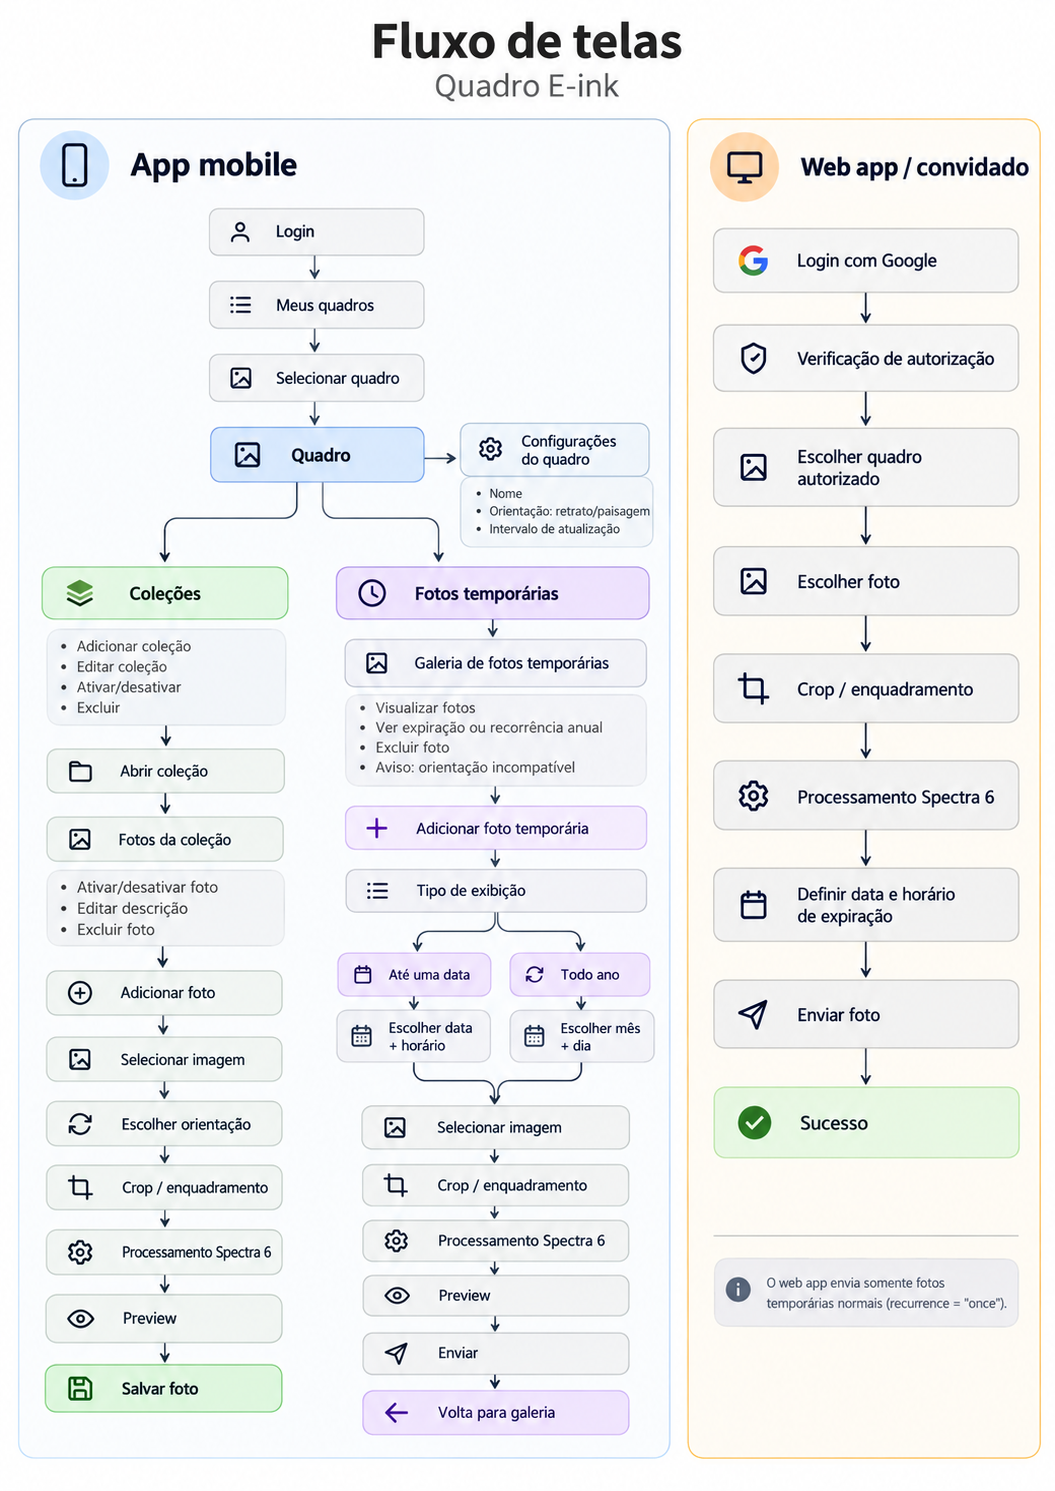
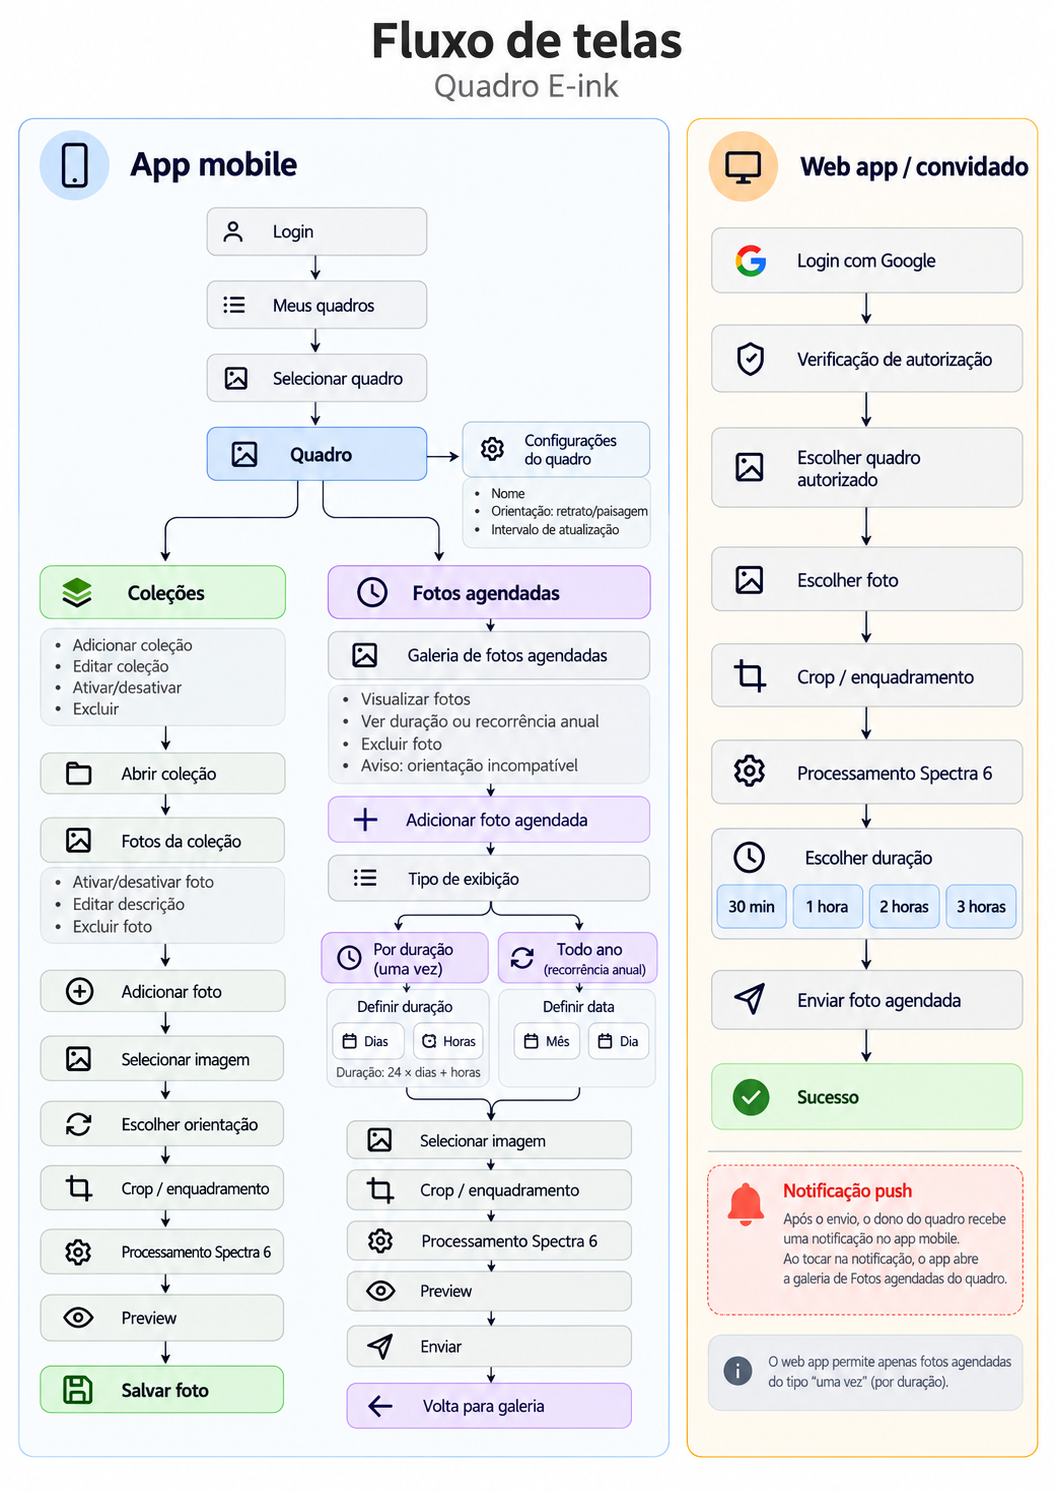
Updating Documentation

diff --git a/README.md b/README.md
@@ -2,9 +2,9 @@
 
 Aplicativo para gerenciamento de quadros digitais E-ink utilizando displays Spectra 6.
 
-O projeto permite organizar coleções de fotos, processar imagens para a paleta do display, enviar fotos temporárias e controlar quais imagens devem aparecer no quadro.
+O projeto permite organizar coleções de fotos, processar imagens para a paleta do display, enviar fotos agendadas e controlar quais imagens devem aparecer no quadro.
 
-Além do aplicativo mobile, existe um web app simplificado que permite que usuários autorizados enviem fotos temporárias para um quadro.
+Além do aplicativo mobile, existe um web app simplificado que permite que usuários autorizados enviem fotos agendadas para um quadro.
 
 ## Funcionalidades
 
@@ -25,26 +25,37 @@ Além do aplicativo mobile, existe um web app simplificado que permite que usuá
 - Conversão das imagens para a paleta Spectra 6
 - Geração do arquivo binário utilizado pelo display
 - Preview da imagem processada
-- Fotos temporárias com expiração
-- Fotos temporárias com recorrência anual
+- Fotos agendadas por duração
+- Fotos agendadas com recorrência anual
 - Aviso de orientação incompatível
+- Recebimento de notificações push quando um convidado envia uma foto agendada
+- Abertura direta da tela de fotos agendadas ao tocar na notificação
 
-### Fotos temporárias
+### Fotos agendadas
 
-Existem dois tipos de foto temporária.
+Existem dois tipos de foto agendada.
 
-#### Exibição única
+#### Exibição por duração
 
-A imagem é válida até uma data e horário definidos.
+A foto é exibida na próxima sincronização disponível e permanece no quadro pelo tempo definido a partir do momento em que começa a ser exibida.
 
 ```text
 recurrence: "once"
-expiresAt: Timestamp
+durationMinutes: 180
 ```
+
+No aplicativo mobile, a duração é definida em dias e horas.
+
+```text
+duração em horas = 24 × dias + horas
+durationMinutes = duração em horas × 60
+```
+
+O início e o término da exibição são controlados localmente pelo firmware. Esse estado não precisa ser armazenado como histórico no servidor.
 
 #### Recorrência anual
 
-A imagem fica programada para aparecer todo ano em uma determinada data.
+A imagem fica programada para aparecer durante o dia escolhido, todos os anos.
 
 ```text
 recurrence: "yearly"
@@ -54,9 +65,11 @@ yearlyDate:
   day: 25
 ```
 
+A recorrência anual utiliza o dia inteiro no fuso local do quadro.
+
 ### Web app
 
-O web app permite que convidados autorizados enviem fotos temporárias sem precisar utilizar o aplicativo mobile.
+O web app permite que convidados autorizados enviem fotos agendadas sem precisar utilizar o aplicativo mobile.
 
 Fluxo:
 
@@ -67,14 +80,46 @@ Login com Google
 → Escolher foto
 → Crop / enquadramento
 → Processamento Spectra 6
-→ Definir data e horário de expiração
+→ Escolher duração
 → Enviar
 ```
 
-O web app suporta apenas fotos temporárias do tipo:
+O web app suporta apenas fotos agendadas do tipo:
 
 ```text
 recurrence: "once"
+```
+
+As durações disponíveis no web app são:
+
+- 30 minutos
+- 1 hora
+- 2 horas
+- 3 horas
+
+### Notificações push
+
+Quando um convidado autorizado envia uma foto agendada pelo web app, a criação do documento no Firestore aciona uma Cloud Function.
+
+```text
+Web app
+→ Firestore cria temporaryPhotos/{photoId}
+→ Cloud Function identifica o dono do quadro
+→ Busca os push tokens cadastrados
+→ Expo Push Service / FCM
+→ Notificação chega ao celular
+→ Toque abre "Fotos agendadas" daquele quadro
+```
+
+As notificações enviadas pelo próprio dono do quadro são ignoradas pela Cloud Function.
+
+Um mesmo usuário pode registrar vários dispositivos.
+
+```text
+users/{uid}/pushTokens/{expoPushToken}
+  token
+  platform
+  updatedAt
 ```
 
 ## Fluxo de telas
@@ -89,10 +134,48 @@ O projeto utiliza:
 - Cloud Firestore
 - Firebase Storage
 - Firebase Hosting
+- Firebase Cloud Functions
 
 A estrutura principal de dados e arquivos está representada abaixo.
 
 ![Estrutura Firestore e Storage](docs/firestore-storage.png)
+
+### Fotos agendadas no Firestore
+
+```text
+devices/{deviceId}/temporaryPhotos/{photoId}
+```
+
+Exibição por duração:
+
+```text
+createdByUid
+createdByEmail
+previewPath
+epaperFilePath
+width
+height
+createdAt
+recurrence: "once"
+durationMinutes
+```
+
+Recorrência anual:
+
+```text
+createdByUid
+previewPath
+epaperFilePath
+width
+height
+createdAt
+recurrence: "yearly"
+yearlyDate:
+  month
+  day
+```
+
+Os nomes internos `temporaryPhotos` foram mantidos mesmo com a terminologia de interface alterada para "fotos agendadas".
 
 ## Processamento de imagem
 
@@ -135,9 +218,9 @@ O development build precisa estar instalado no dispositivo antes de executar ess
 eas build -p android --profile preview
 ```
 
-## Web app
+### Web app
 
-### Rodar localmente
+#### Rodar localmente
 
 ```bash
 npx expo start --web -c
@@ -145,7 +228,7 @@ npx expo start --web -c
 
 O `-c` limpa o cache do Expo antes de iniciar.
 
-### Gerar build e publicar
+#### Gerar build e publicar
 
 Gerar os arquivos estáticos:
 
@@ -172,6 +255,20 @@ npx expo export -p web
 firebase deploy --only hosting
 ```
 
+### Firebase Functions
+
+Publicar as Cloud Functions:
+
+```bash
+firebase deploy --only functions
+```
+
+A função responsável pelas notificações é acionada quando uma nova foto agendada é criada em:
+
+```text
+devices/{deviceId}/temporaryPhotos/{photoId}
+```
+
 ## Estrutura geral
 
 ```text
@@ -182,7 +279,8 @@ App mobile
 ├── configurações do display
 ├── coleções
 ├── fotos
-├── fotos temporárias
+├── fotos agendadas
+├── notificações push
 └── processamento Spectra 6
 
 Web app
@@ -191,13 +289,16 @@ Web app
 ├── seleção de foto
 ├── crop
 ├── processamento Spectra 6
-└── envio de foto temporária
+├── seleção de duração
+└── envio de foto agendada
 
 Firebase
 ├── Authentication
 ├── Firestore
 ├── Storage
-└── Hosting
+├── Hosting
+└── Cloud Functions
+    └── envio de notificações push
 
 Firmware
 └── ESP32 + display Spectra 6
@@ -213,9 +314,11 @@ Implementado:
 - gerenciamento de coleções
 - gerenciamento de fotos
 - processamento Spectra 6
-- fotos temporárias
+- fotos agendadas por duração
 - recorrência anual
 - controle de orientação
+- notificações push
+- abertura da galeria de fotos agendadas ao tocar na notificação
 
 ### Web app
 
@@ -223,9 +326,21 @@ Implementado:
 
 - autenticação Google
 - controle de autorização
-- envio de fotos temporárias
+- envio de fotos agendadas
+- seleção de duração com presets de 30 min, 1 h, 2 h e 3 h
 - processamento da imagem diretamente no navegador
 - publicação via Firebase Hosting
+
+### Firebase
+
+Implementado:
+
+- armazenamento de fotos e configurações no Firestore
+- armazenamento de previews e arquivos binários no Storage
+- permissões para convidados autorizados
+- armazenamento de múltiplos push tokens por usuário
+- Cloud Function para envio automático de notificações
+- integração com Expo Push Service / FCM
 
 ### Firmware
 
@@ -234,8 +349,10 @@ O firmware será responsável por:
 - sincronizar fotos e configurações
 - armazenar imagens localmente
 - selecionar a próxima imagem
-- interpretar fotos temporárias
+- interpretar fotos agendadas por duração
+- controlar localmente o início e o término de `durationMinutes`
 - interpretar recorrências anuais
+- respeitar a orientação configurada do display
 - atualizar o display E-ink
 - utilizar deep sleep para reduzir o consumo de bateria
 
@@ -243,11 +360,15 @@ O firmware será responsável por:
 
 - React Native
 - Expo
+- Expo Notifications
 - TypeScript
 - Firebase Authentication
 - Cloud Firestore
 - Firebase Storage
 - Firebase Hosting
+- Firebase Cloud Functions
+- Expo Push Service
+- Firebase Cloud Messaging (FCM)
 - ESP32
 - Spectra 6
 
